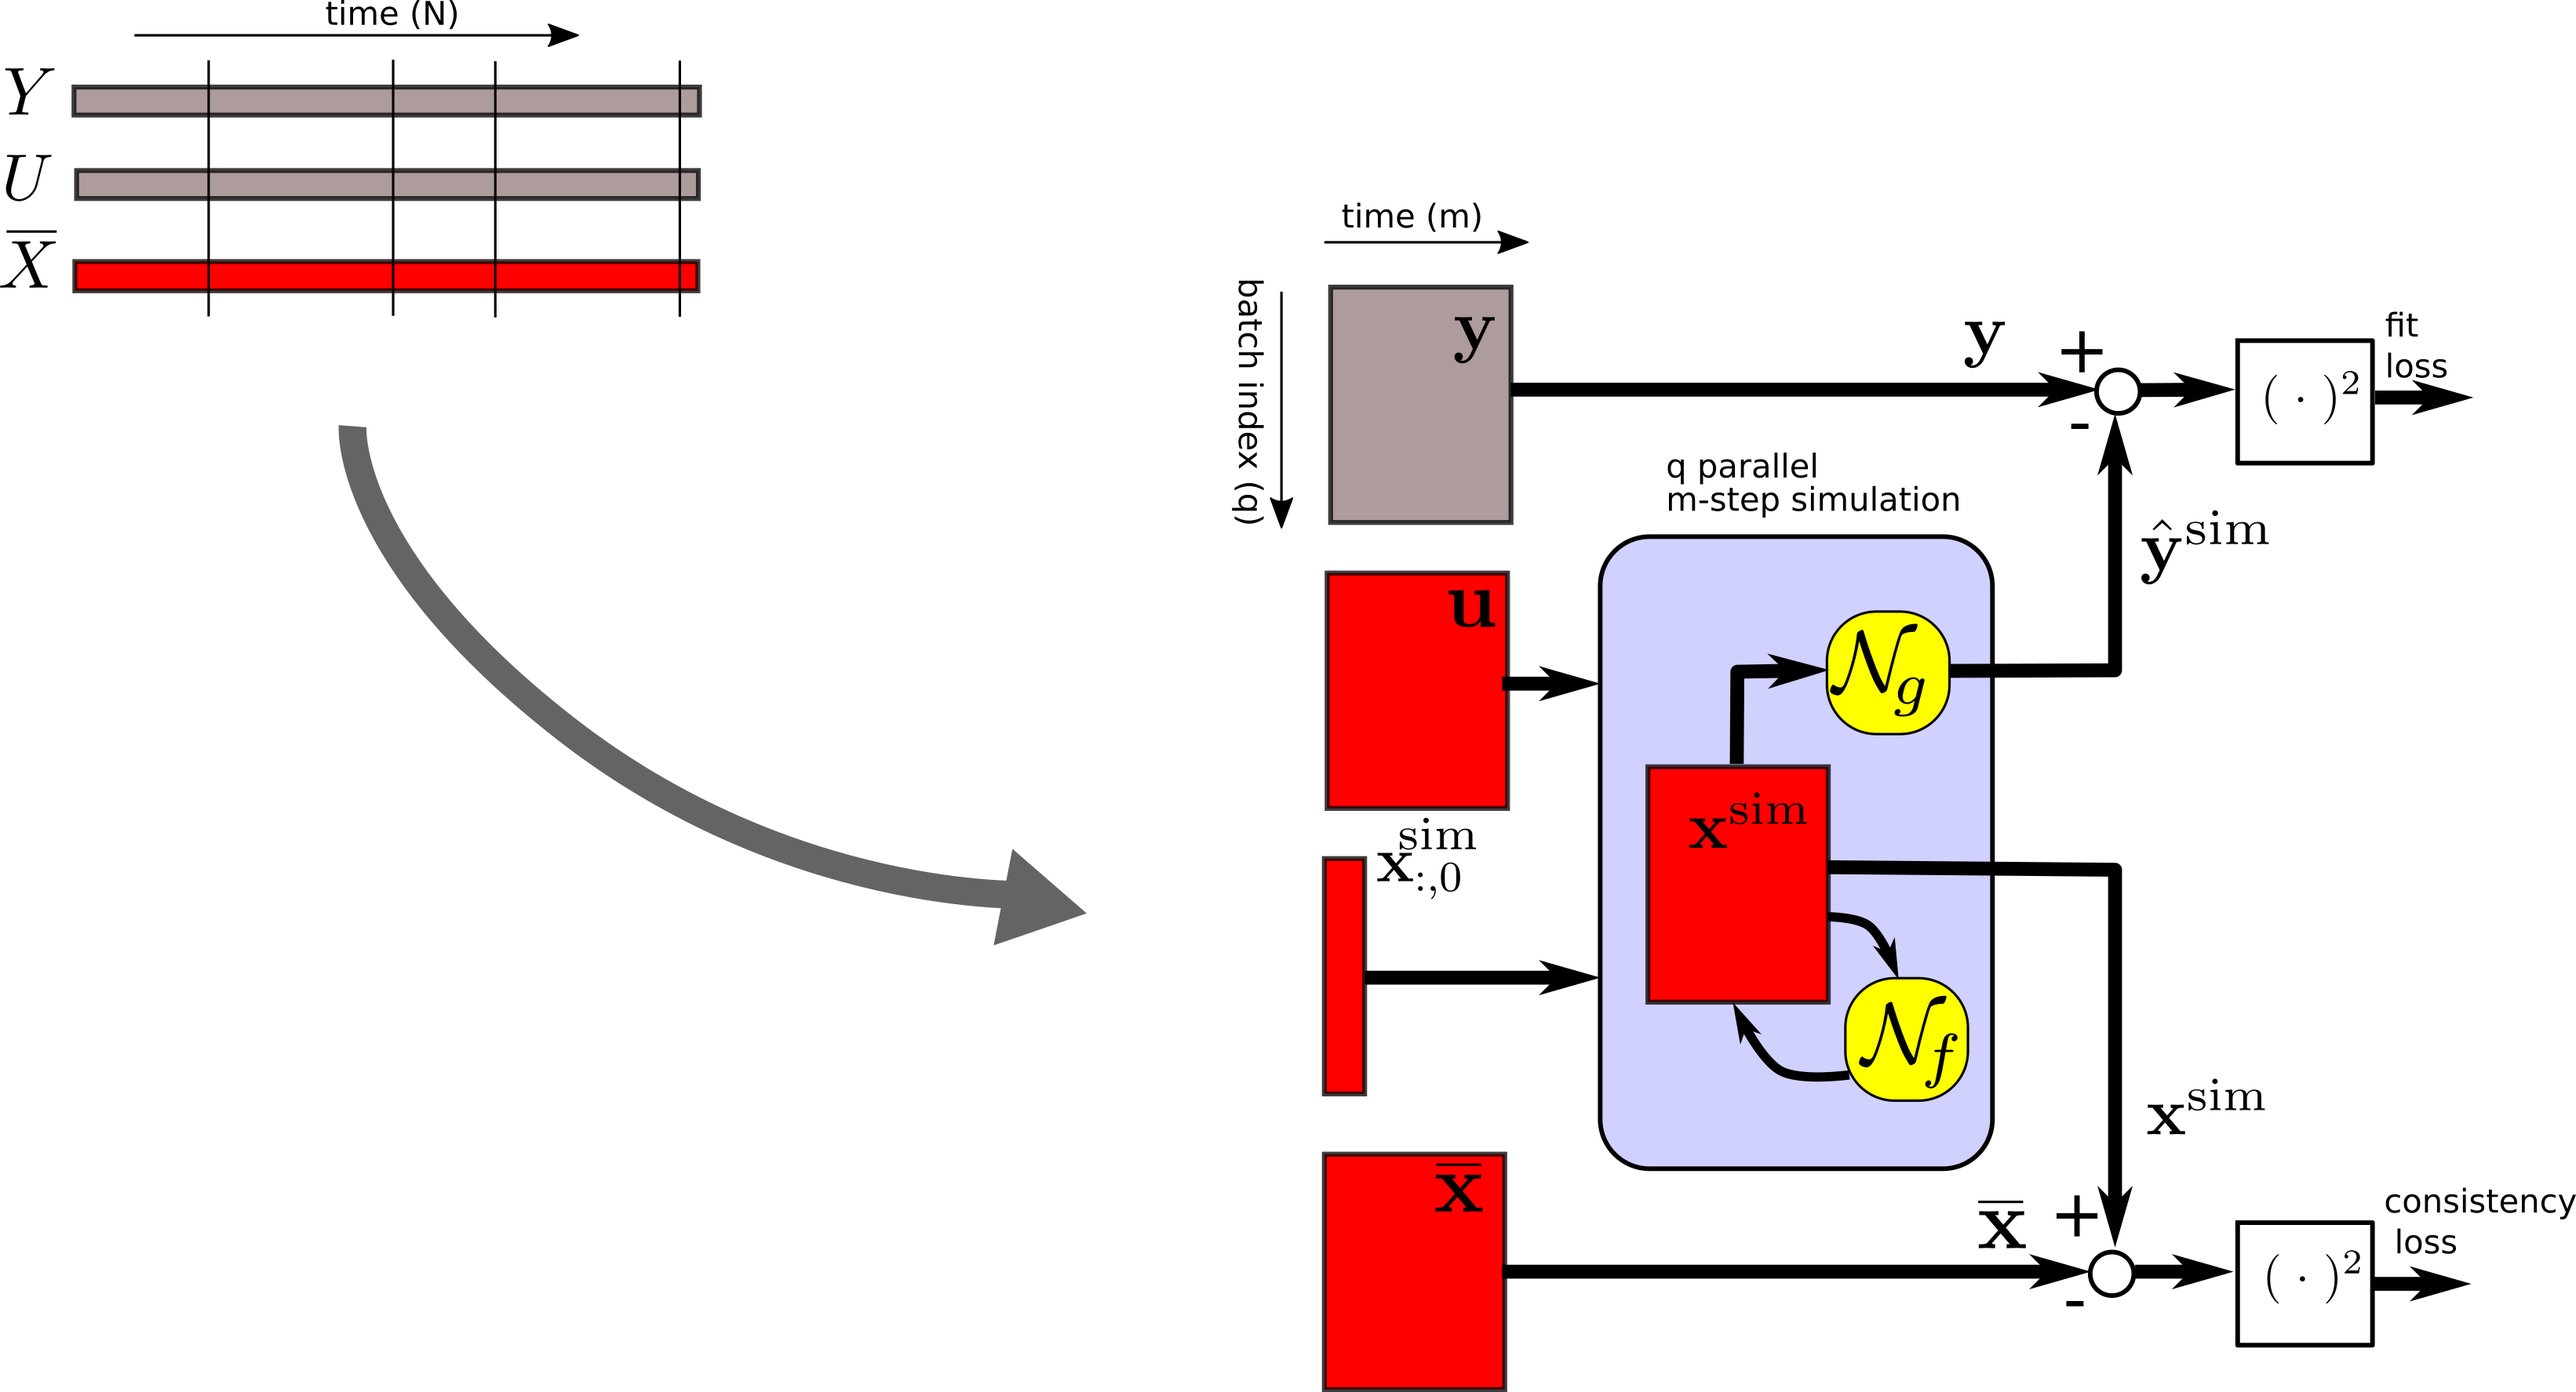
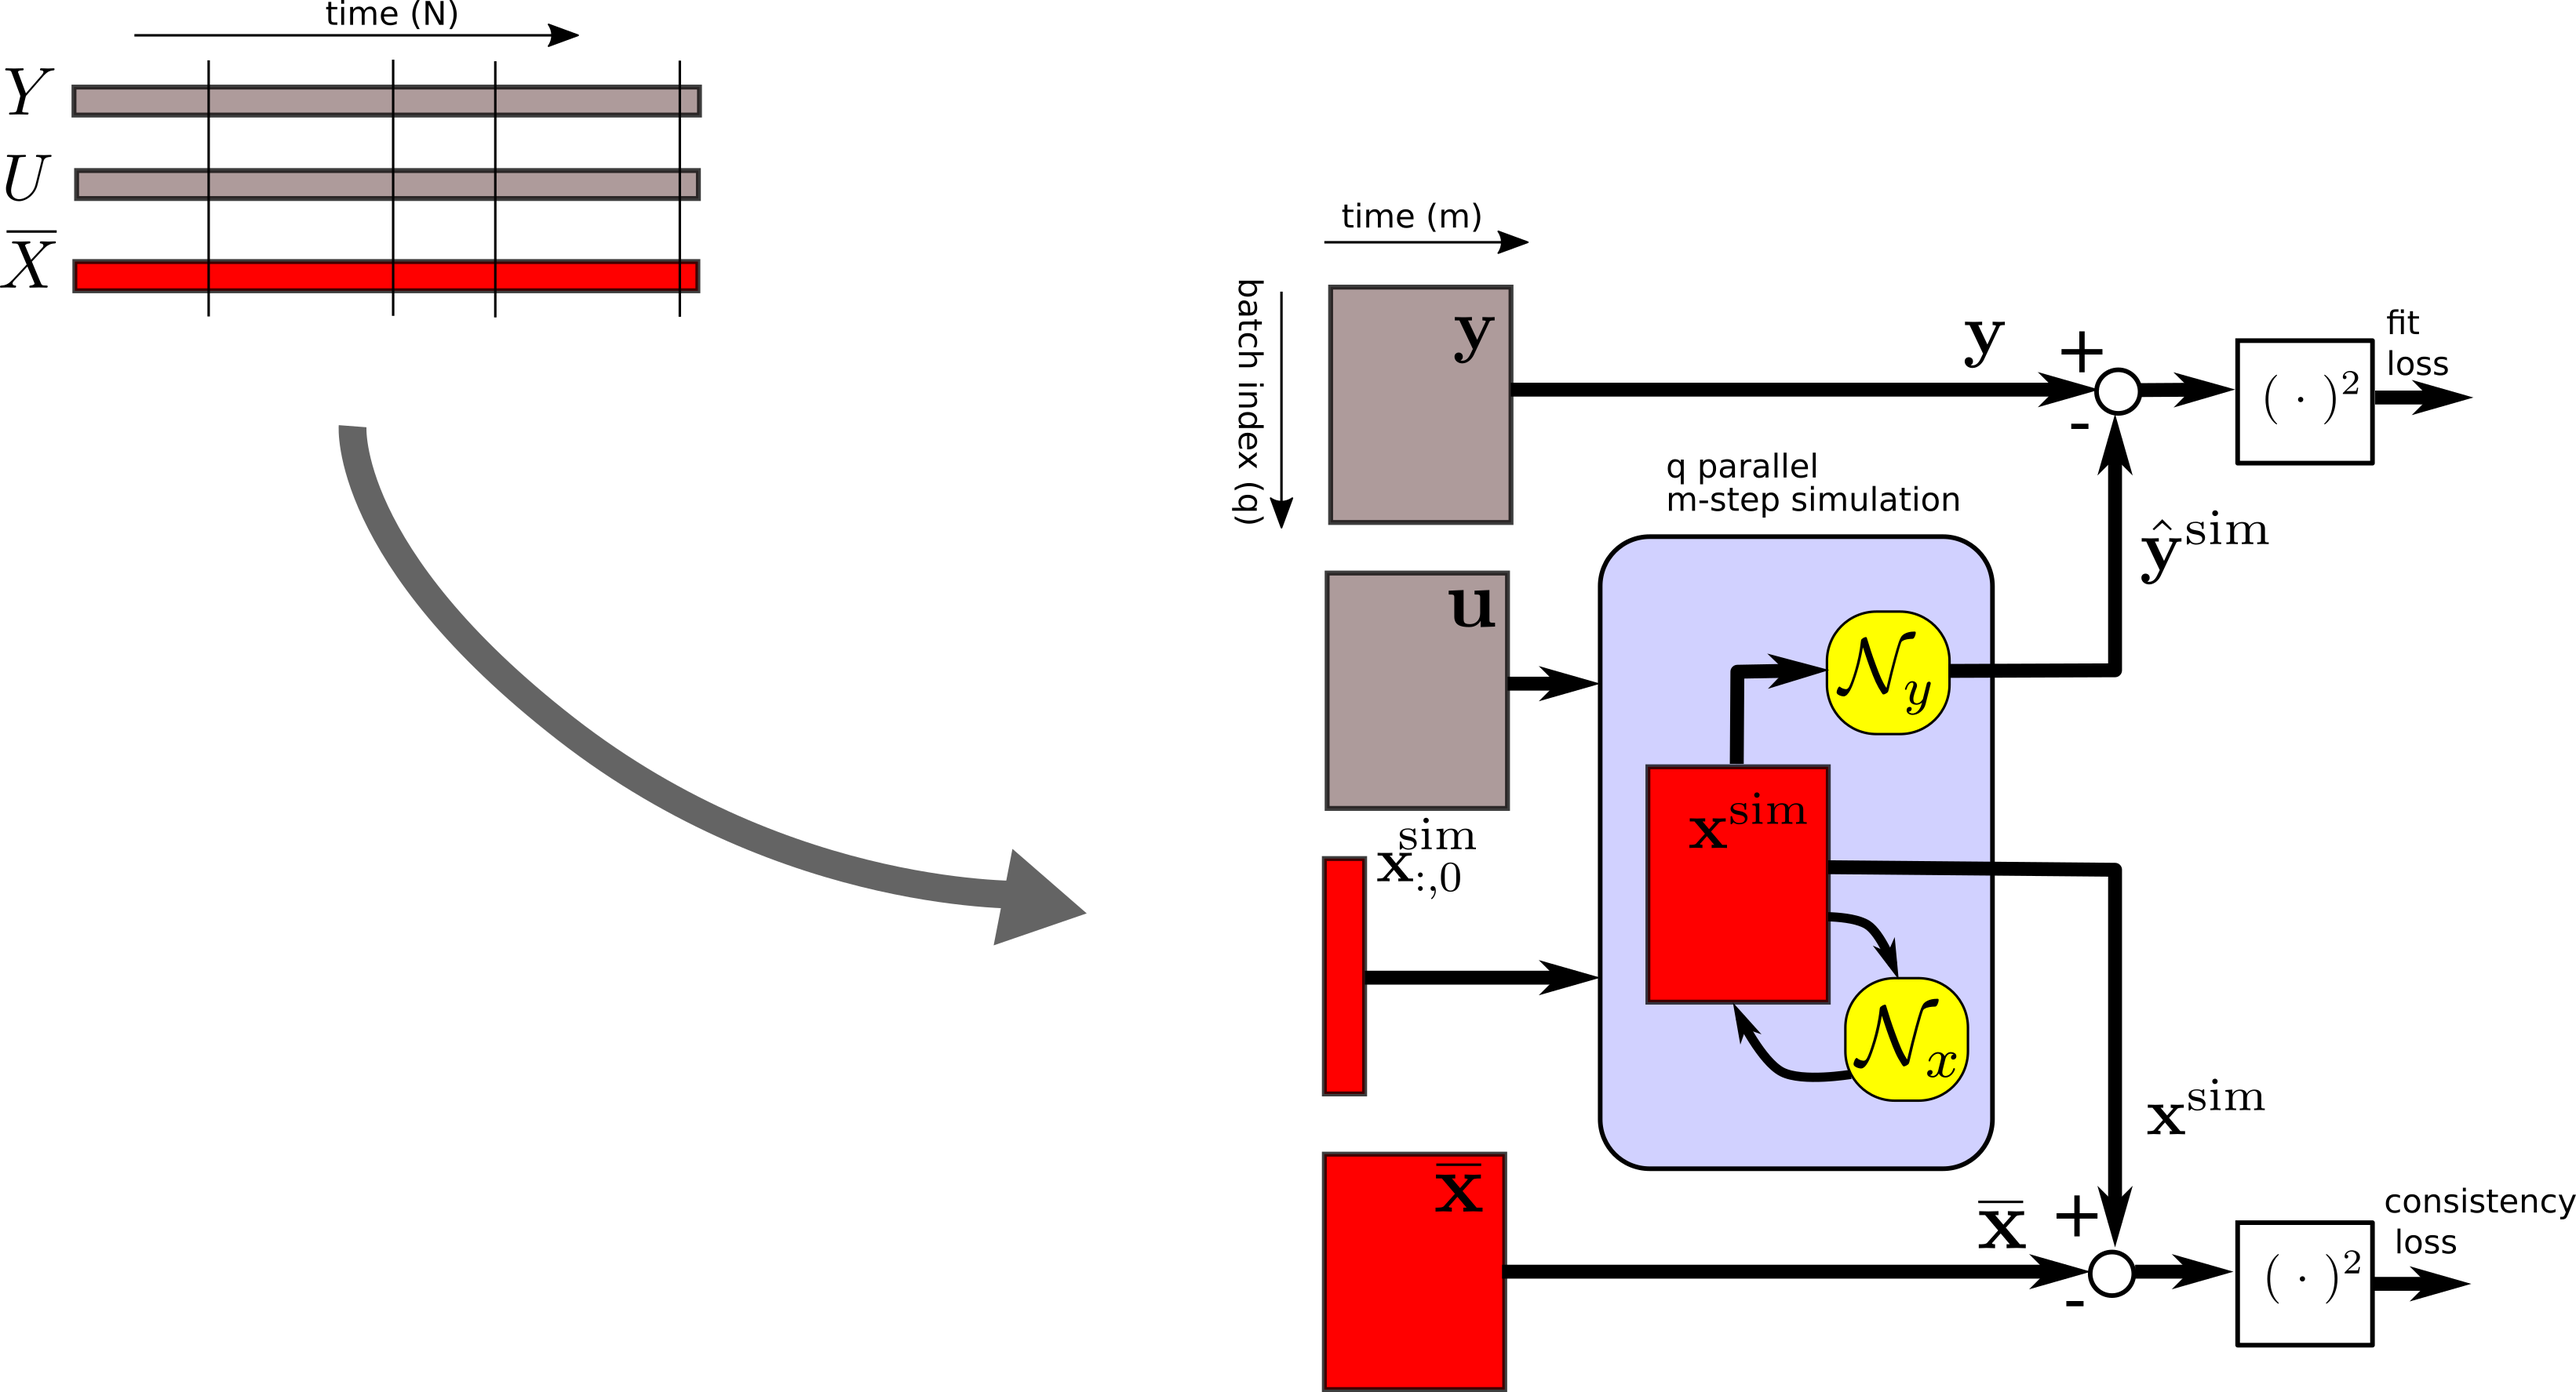
Added block diagram explanation; fixed block diagram colors

diff --git a/README.md b/README.md
@@ -11,7 +11,24 @@ The following fitting methods for State-Space (SS) and Input-Output (IO) neural 
 
 # Block Diagram
 
-The following block diagram illustrates the proposed multi-step simulation error minimization approach:
+The block diagram below illustrates the proposed multi-step simulation error minimization approach applied to a
+state-space model. Quantities in red are tunable optimization variable (so as the parameters of the state and output
+neural network mappings).
+ 
+At each iteration of the gradient-based optimization loop:
+
+1. A batch consisting of q length-m subsequences of measured input, measured output, and hidden state is extracted from the training 
+dataset (and from the tunable hidden state sequence)
+1. The system's simulated state and output subsequences are obtained by applying m-step-ahead simulation
+ to the input subsequences. The initial condition is taken as the first element of the hidden state sequence 
+1. The fit loss is computed as the discrepancy between measured and simulated output; the consistency 
+  loss is computed as the discrepancy between hidden and simulated state; the total loss is a defined as a weighted
+  sum of the fit and consistency loss
+1. Derivatives of the total loss w.r.t. the hidden state and the neural network parameters are computed via
+  back-propagation
+1. Using the derivatives computed at the previous step, a gradient-based optimization step is performed. The hidden state and neural network parameters are updated 
+  in the negative gradient direction, aiming to minimize the total loss
+
 
 ![Multi-step block diagram](scheme_full.png "Title")
 
@@ -39,7 +56,7 @@ For the [RLC example](examples/RLC_example), the main scripts are:
  *  ``RLC_IO_fit_1step.py``: IO model, one-step prediction error minimization
  *  ``RLC_IO_fit_multistep.py``: IO model, multistep simulation error minimization
  *  ``RLC_IO_eval_sim.py``: IO model, evaluate the simulation performance of the identified models, produce relevant plots  and model statistics
- *   ``RLC_OE_comparison.m``: Linear Output Error (OE) model fit in Matlab
+ *  ``RLC_OE_comparison.m``: Linear Output Error (OE) model fit in Matlab
   
 
 # Software requirements:
